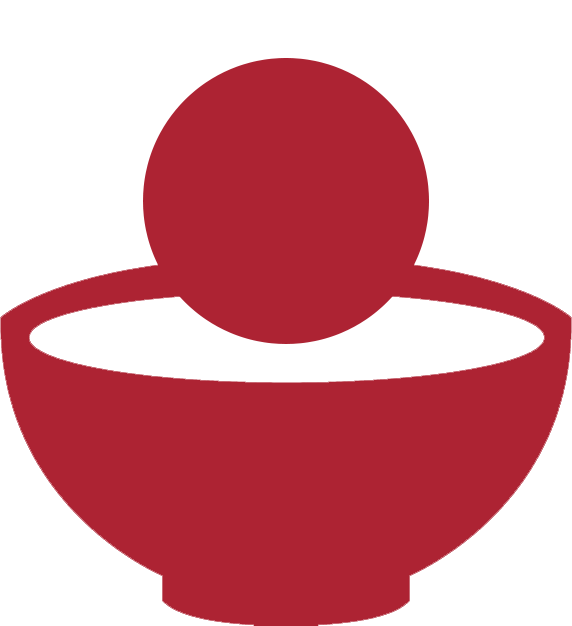
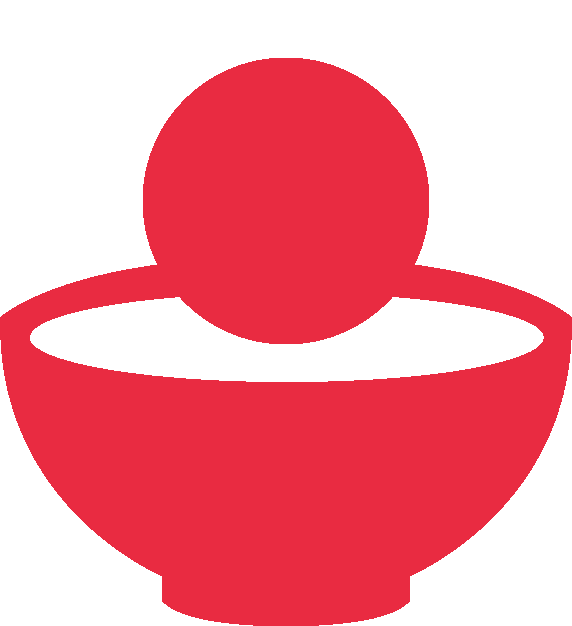
Improved image colours, closes #28

diff --git a/application/core/MY_Model.php b/application/core/MY_Model.php
@@ -256,7 +256,7 @@ class MY_Model2 extends MY_Model
 //  Record-oriented functions
 //---------------------------------------------------------------------------
 	// Retrieve an existing DB record as an object
-	function get($key1, $key2)
+	function get($key1, $key2 = null)
 	{
 		$this->db->where($this->_keyField, $key1);
 		$this->db->where($this->_keyField2, $key2);
@@ -287,7 +287,7 @@ class MY_Model2 extends MY_Model
 	}
 
 	// Delete a record from the DB
-	function delete($key1, $key2)
+	function delete($key1, $key2 = null)
 	{
 		$this->db->where($this->_keyField, $key1);
 		$this->db->where($this->_keyField2, $key2);
@@ -295,7 +295,7 @@ class MY_Model2 extends MY_Model
 	}
 
 	// Determine if a key exists
-	function exists($key1, $key2)
+	function exists($key1, $key2 = null)
 	{
 		$this->db->where($this->_keyField, $key1);
 		$this->db->where($this->_keyField2, $key2);
